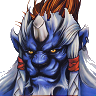
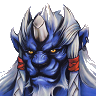
Fixed Kimahri's face again Reimplemented counting stats and pulsing for bars Should be back to where it was before data loss

Changed region(s): [[0.1562, 0.0, 0.8438, 0.3125], [0.1875, 0.9688, 0.8125, 1.0], [0.9688, 0.9688, 1.0, 1.0]]

diff --git a/ffx_overlay/character.js b/ffx_overlay/character.js
@@ -1,7 +1,55 @@
 'use strict';
 import AccessFile from './access_file.js';
 import * as draw from './draw.js';
-export default function Character(_name, _x, _y) {
+function clamp(value, min, max) {
+	return Math.min(Math.max(value, min), max);
+}
+function CountTo(value, target, steps) {
+	var diff = (target - value) / steps;
+	var retval;
+	if(diff > 0)
+	{
+		retval = value + Math.ceil(diff);
+		if(retval > target)
+			retval = target;
+	}
+	else
+	{
+		retval = value + Math.floor(diff);
+		if(retval < target)
+			retval = target;
+	}
+
+	return retval;
+}
+function CountToFloat(value, target, steps) {
+	var diff = (target - value) / steps;
+	var retval;
+	if(diff > 0)
+	{
+		retval = value + diff;
+		if(retval > target)
+			retval = target;
+	}
+	else
+	{
+		retval = value + diff;
+		if(retval < target)
+			retval = target;
+	}
+
+	return retval;
+}
+var gradient_pulse = 0.5;
+var gradient_pulse_target = 1.0;
+export function update_gradient_pulse() {
+	gradient_pulse = CountToFloat(gradient_pulse, gradient_pulse_target, 50);
+	if(gradient_pulse + 0.1 >= 1.0)
+		gradient_pulse_target = 0.0;
+	if(gradient_pulse - 0.1 <= 0.0)
+		gradient_pulse_target = 1.0;
+}
+export  function Character(_name, _x, _y) {
 	const php_file = "access_file.php?";
 	var character_object = {
 		name: _name,
@@ -10,8 +58,12 @@ export default function Character(_name, _x, _y) {
 		y: _y,
 		hp: -1,
 		hp_file: AccessFile('character=' + _name.toLowerCase() + '&stat=curr_hp'),
+		max_hp: -1,
+		max_hp_file: AccessFile('character=' + _name.toLowerCase() + '&stat=max_hp'),
 		mp: -1,
 		mp_file: AccessFile('character=' + _name.toLowerCase() + '&stat=curr_mp'),
+		max_mp: -1,
+		max_mp_file: AccessFile('character=' + _name.toLowerCase() + '&stat=max_mp'),
 		slvl: -1,
 		slvl_file: AccessFile('character=' + _name.toLowerCase() + '&stat=slvl'),
 		draw : function(x, y) {
@@ -23,9 +75,14 @@ export default function Character(_name, _x, _y) {
 			const face_rect_height = 96;
 			const shadow = 4
 			const shear = -0.5
-			character_object.hp = character_object.hp_file.read();
-			character_object.mp = character_object.mp_file.read();
-			character_object.slvl = character_object.slvl_file.read();
+			const steps = 15;
+			this.hp = CountTo(this.hp, this.hp_file.read(), steps);
+			this.mp = CountTo(this.mp, this.mp_file.read(), steps);
+			this.max_hp = this.max_hp_file.read();
+			this.max_mp = this.max_mp_file.read();
+			this.slvl = CountTo(this.slvl, this.slvl_file.read(), steps);
+			var hp_mult = clamp(this.hp / this.max_hp, 0, 1);
+			var mp_mult = clamp(this.mp / this.max_mp, 0, 1);
 
 			//still not comfortable with JS syntax
 			//test that the (this.)x and (this.)y work, not being _x and _y
@@ -47,13 +104,13 @@ export default function Character(_name, _x, _y) {
 			x = x - 11
 			y = y + 13 + 2
 			draw.rect(x + shadow, y + shadow, rectWidth, rectHeight, shear, "#000000d9");
-			draw.linear_gradient_rect(x, y, rectWidth, rectHeight, shear, "#ff0100bd", "#ff9100bd");
+			draw.linear_pulsing_gradient_rect(x, y, Math.ceil(rectWidth * hp_mult), rectHeight, shear, "#ff0100bd", "#ff9100bd", gradient_pulse);
 			draw.text("HP", "normal 44px FinalFantasy", "white", "black", 3, x + 6, y + 24)
 			draw.text(this.hp, "bold italic 36px Georgia", "white", "black", 2, x + 75, y + 20)
 
 			y = y + rectHeight + shadow + shadow+  6
 			draw.rect(x + shadow, y + shadow, rectWidth, rectHeight, shear, "#000000d9");
-			draw.linear_gradient_rect(x, y, rectWidth, rectHeight, shear, "#23ff00bd", "#00ccffbd");
+			draw.linear_pulsing_gradient_rect(x, y, Math.ceil(rectWidth * mp_mult), rectHeight, shear, "#23ff00bd", "#00ccffbd", gradient_pulse);
 			draw.text("MP", "normal 44px FinalFantasy", "white", "black", 3, x + 6, y + 24)
 			draw.text(this.mp, "bold italic 36px Georgia", "white", "black", 2, x + 75, y + 20)
 

diff --git a/ffx_overlay/draw.js b/ffx_overlay/draw.js
@@ -80,6 +80,13 @@ function create_linear_gradient(x0, y0, x1, y1, c0, c1) {
 	grd.addColorStop(1, c1);
 	return grd;
 }
+function create_pulsing_linear_gradient(x0, y0, x1, y1, c0, c1, pulse) {
+	var grd = temp_context.createLinearGradient(x0, y0, x1, y1);
+	grd.addColorStop(0, c0);
+	grd.addColorStop(pulse, c1);
+	grd.addColorStop(1, c1);
+	return grd;
+}
 export function rect(x, y, w, h, s, c) {
 	temp_context.transform(1, 0, s, 1, 0, 0);//shear(s)
 	temp_context.translate(27 * -s, 0);
@@ -91,6 +98,11 @@ export function rect(x, y, w, h, s, c) {
 	temp_context.resetTransform();
 	temp_context.clearRect(0, 0, temp_canvas.width, temp_canvas.height);
 	main_context.resetTransform();
+}
+export function linear_pulsing_gradient_rect(x, y, w, h, s, c0, c1, pulse) {
+	if(pulse < 0.0) pulse = 0.0;
+	else if(pulse > 1.0) pulse = 1.0;
+	rect(x, y, w, h, s, create_pulsing_linear_gradient(-w / 2, -h / 2, w / 2, h / 2, c0, c1, pulse));
 }
 export function linear_gradient_rect(x, y, w, h, s, c0, c1) {
 	rect(x, y, w, h, s, create_linear_gradient(-w / 2, -h / 2, w / 2, h / 2, c0, c1));

diff --git a/ffx_overlay/main.js b/ffx_overlay/main.js
@@ -1,6 +1,6 @@
 'use strict';
 import AccessFile from './access_file.js';
-import Character from './character.js';
+import {Character, update_gradient_pulse} from './character.js';
 import * as draw from './draw.js';
 
 var background_image;
@@ -51,6 +51,7 @@ function draw_all() {
 	draw.text(time_file.read(), "bold italic 28px Georgia", "white", "black", 2, 12, 76);
 	draw.text(gil_file.read(), "bold italic 28px Georgia", "white", "black", 2, 200, 76);
 
+	update_gradient_pulse();
 	tidus_character.draw();
 	yuna_character.draw();
 	auron_character.draw();
